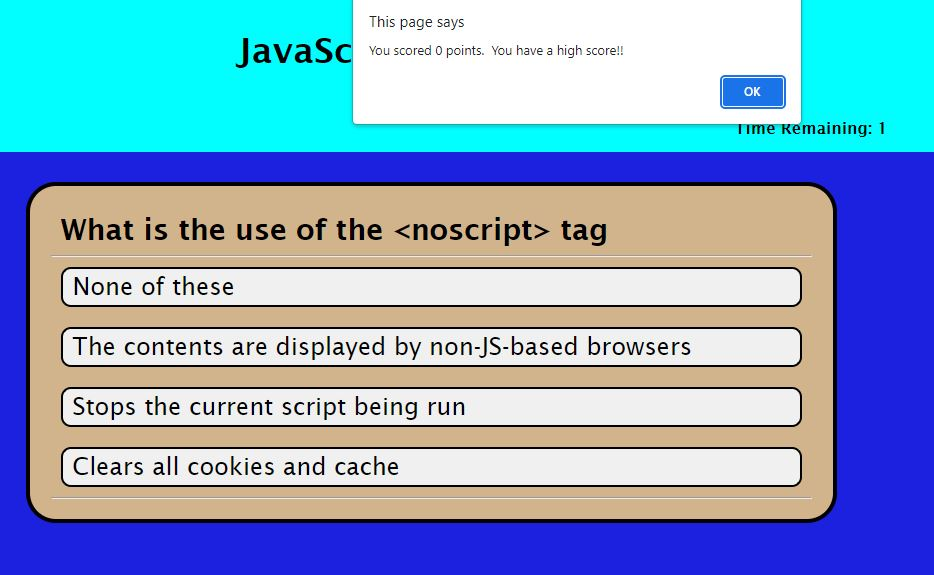
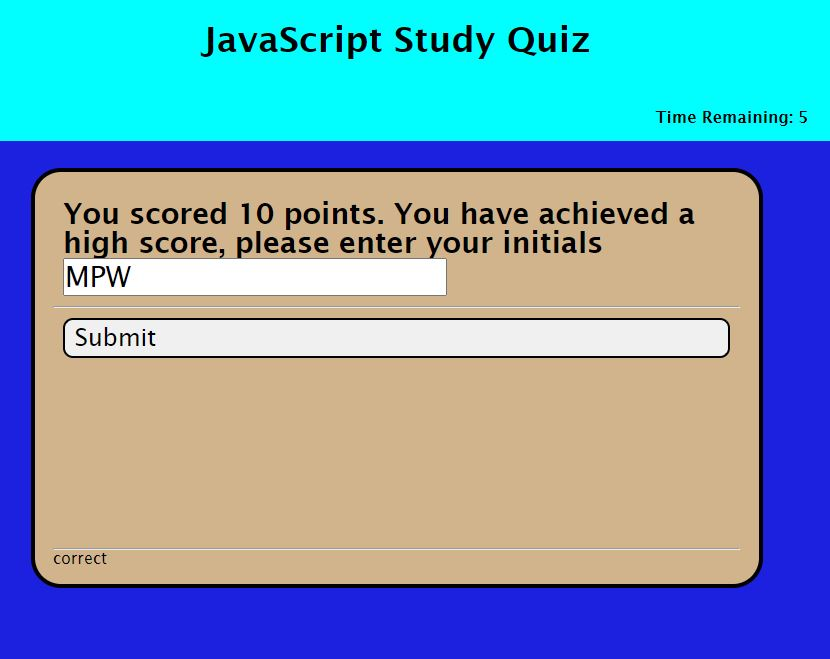
final commit - I mean it this time

diff --git a/assets/js/script.js b/assets/js/script.js
@@ -5,6 +5,7 @@ var questionEl = document.getElementById("questionText");
 var choices = document.querySelectorAll("button");
 var hiScoreListEl = document.getElementById("scoreList");
 var resultEl = document.getElementById("result");
+var inputEl = document.createElement("input");
 //declare variables
 var timer;
 var timeLeft = 20;
@@ -208,22 +209,22 @@ function resetScores(){
     displayHiScores();
 }
 
-//prompts to enter initials for a high score
-function getInitials() {
-    initials = '';
-    alert("You scored " + score + " points.  You have a high score!!");
-    do {
-        var input = prompt("Please enter your initials (will only accept the first 3 letters entered):");
-    } while (input == '' || input === null)
-    input = input.toUpperCase();
-    for (var i=0; i<3; i++){
-        if (input.charAt(i)===null){
-            break;
-        }
-        initials += input.charAt(i);
-    }
-    //console.log(initials);
-}
+/* //prompts to enter initials for a high score  -- removed and added text field for initial gathering
+ function getInitials() {
+     initials = '';
+     alert("You scored " + score + " points.  You have a high score!!");
+     do {
+         var input = prompt("Please enter your initials (will only accept the first 3 letters entered):");
+     } while (input == '' || input === null)
+     input = input.toUpperCase();
+     for (var i=0; i<3; i++){
+         if (input.charAt(i)===null){
+             break;
+         }
+         initials += input.charAt(i);
+     }
+     //console.log(initials);
+ } */
 
  // adjusts scores when a high is attained
 function adjustHighScores() {
@@ -285,13 +286,32 @@ function endGame() {
     if (highScores[maxHiScores] == null || score > highScores[maxHiScores]) {
         // good enough for high score list
         getInitials();
-        adjustHighScores();
+    } else {
+    displayEnd();
     }
+}
+
+function getInitials(){
+    resultEl.textContent = '';
+    questionEl.textContent = "You scored " + score + " points. You have achieved a high score, please enter your initials";
+    inputEl.maxLength = 3;
+    inputEl.setAttribute('type', 'text');
+    questionEl.appendChild(inputEl);
+    choices[0].textContent = "Submit";
+    choices[0].setAttribute('data-info', 'submit');
+    choices[1].style.visibility = 'hidden'
+    choices[2].style.visibility = 'hidden'
+    choices[3].style.visibility = 'hidden'
+}
+
+
+function displayEnd(){
     questionEl.textContent = "You scored " + score + " points.";
     choices[0].textContent = "Start new Game";
     choices[0].setAttribute('data-info', 'start');
     choices[1].textContent = "Show High Scores";
     choices[1].setAttribute('data-info', 'scores');
+    choices[1].style.visibility = 'visible';
     choices[2].style.visibility = 'hidden';
     choices[3].style.visibility = 'hidden';
     resultEl.textContent = '';
@@ -316,6 +336,15 @@ gamespaceEL.addEventListener("click", function(event) {
             return;
         } else if (info == 'home') {
             displayHome();
+            return;
+        } else if (info == 'submit') {
+            initials = inputEl.value.toUpperCase();
+            if (initials == '') {
+                resultEl.textContent = "You must enter initials";
+                return;
+            }
+            adjustHighScores();
+            displayEnd();
             return;
         } else if (info == 'correct') {
             score += 5;

diff --git a/README.md b/README.md
@@ -1,1 +1,34 @@
-# Challenge04
+# challenge04 - Mike's JavaScript Quiz Application
+
+## Description
+
+This Challenge tasks us with creating a timed javascript quiz.  I have used JavaScript to utilize event listeners, time Intervals, DOM manipulation, data-attributes, localStorage (read and write) and more.
+
+## Installation
+
+N/A
+
+## Usage
+
+Deployed Website
+https://mwelle238.github.io/challenge03/
+
+GitHub link
+https://github.com/mwelle238/MWs-JS-quiz
+
+
+## Credits
+
+Some questions were gathered from https://www.interviewbit.com/javascript-mcq/
+
+## License
+
+Please refer to the LICENSE in the repo.
+
+## Screenshots
+
+![alt text](https://github.com/mwelle238/MWs-JS-quiz/assets/images/image1.JPG?raw=true)
+![alt text](https://github.com/mwelle238/MWs-JS-quiz/assets/images/image2.JPG?raw=true)
+![alt text](https://github.com/mwelle238/MWs-JS-quiz/assets/images/image3.JPG?raw=true)
+![alt text](https://github.com/mwelle238/MWs-JS-quiz/assets/images/image4.JPG?raw=true)
+![alt text](https://github.com/mwelle238/MWs-JS-quiz/assets/images/image5.JPG?raw=true)
